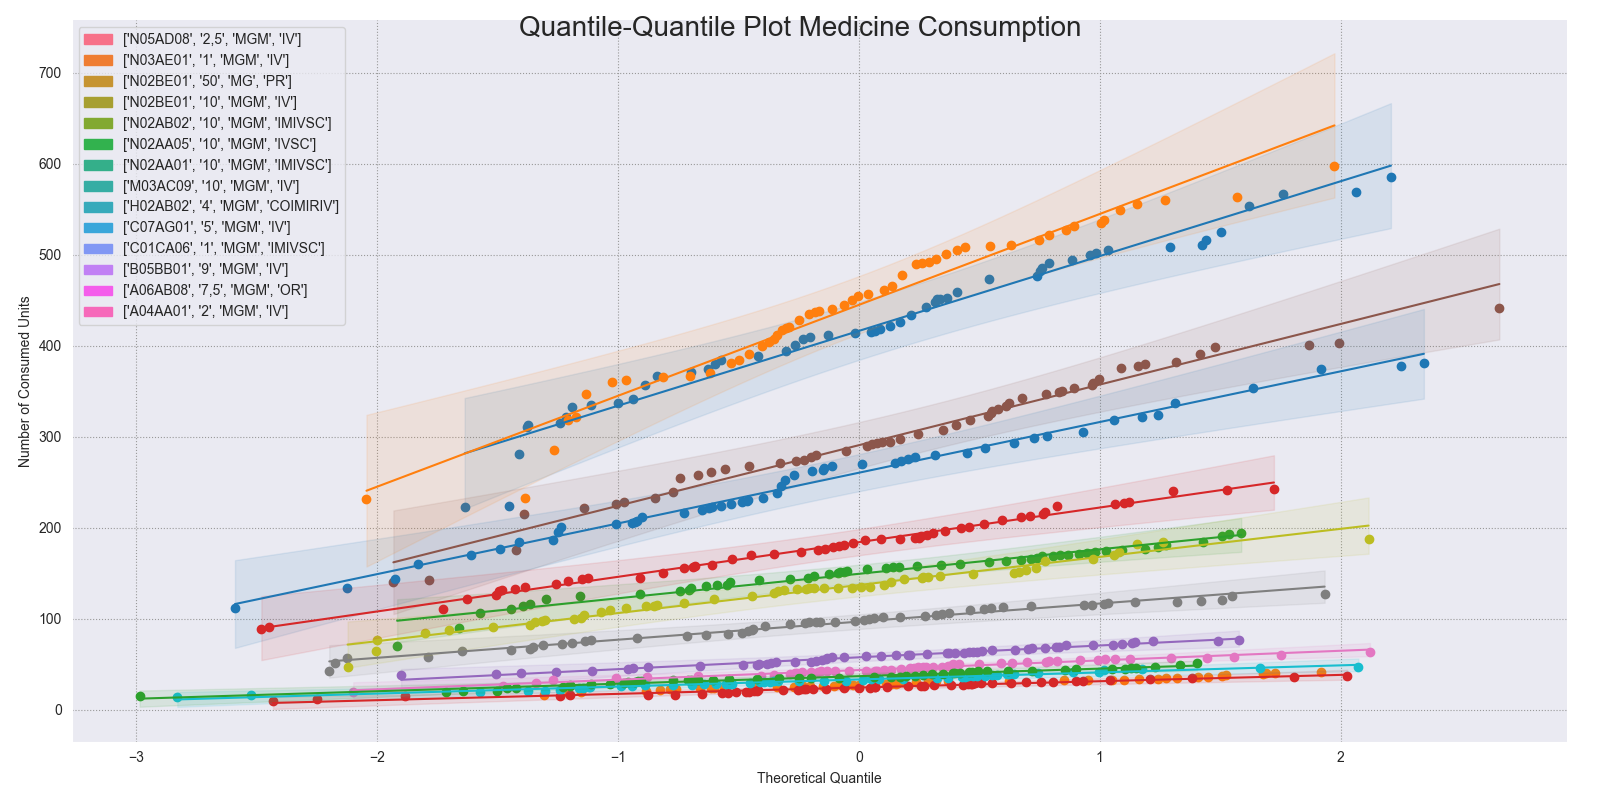
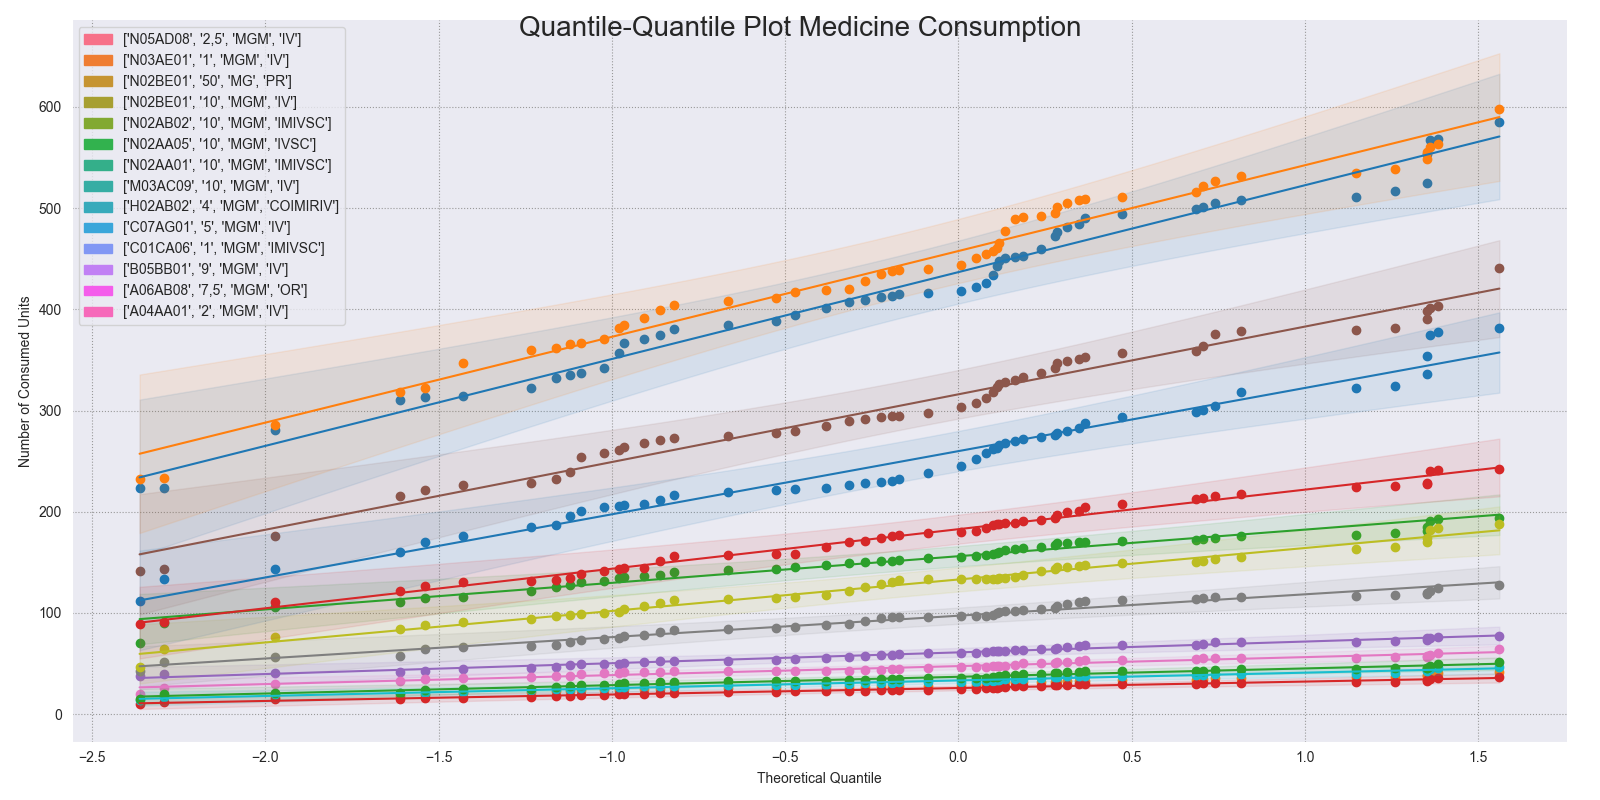
Final Code

Changed region(s): [[0.0312, 0.0625, 0.9375, 0.9062], [0.8125, 0.0625, 0.8438, 0.0938]]

diff --git a/Correlations1.py b/Correlations1.py
@@ -11,7 +11,7 @@ con_dict_updated = json.load(f)
 
 def new_df(d):
     df = pd.DataFrame.from_dict(d,orient='columns')
-    holiday_calender = [1, 0, 0, 0, 0, 0, 0, 1, 0, 0, 0, 0, 0, 1, 1, 0, 0, 0, 0, 1, 0, 0, 0, 0, 0, 0, 1, 1, 1, 1, 1, 1, 0, 0, 0,
+    holiday_calender = [1, 0, 0, 0, 0, 0, 0, 1, 0, 0, 0, 0, 0, 1, 1, 0, 0, 0, 0, 0, 0, 0, 0, 0, 0, 0, 1, 1, 1, 1, 1, 1, 0, 0, 0,
                 0, 0, 0, 0, 0, 0, 0, 1, 0, 0, 0, 0, 0, 0, 0, 0, 1, 1]
     df['Holidays'] = holiday_calender
     return df
@@ -20,23 +20,6 @@ def new_df1(d,p):
     df = pd.DataFrame.from_dict(d,orient='columns')
     df['Patients'] = p.values()
     return df
-
-def corrfunc(x, y, **kws):
-    r, _ = stats.pearsonr(x, y)
-    ax = plt.gca()
-    ax.annotate("r = {:.2f}".format(r),
-                xy=(.1, .9), xycoords=ax.transAxes)
-def cor_plot(df):
-    ax1 = sns.set_style("darkgrid", {"grid.color": ".6", "grid.linestyle": ":"})
-    fig, ax1 = plt.subplots(figsize=(12, 6))
-    g = sns.PairGrid(df, palette=["red"])
-    g.map_upper(plt.scatter, s=10)
-    g.map_diag(sns.distplot, kde=False)
-    g.map_lower(sns.kdeplot, cmap="Blues_d")
-    g.map_lower(corrfunc)
-    g.fig.suptitle('Correlation Between Consumed Medicine and Patients')
-    plt.savefig('./Figures/Correlation_Holidays.png')
-    plt.close('all')
 
 def corr_matrix_Patients(df):
     ax1 = sns.set_style("darkgrid", {"grid.color": ".6", "grid.linestyle": ":"})
@@ -50,6 +33,15 @@ def corr_matrix_Patients(df):
     ax1.set_title('Correlation Matrix for Consumed Medicine and Holidays',fontsize=25)
     plt.savefig('./Figures/Correlation_Matrix_P.png')
 
+def corr_table_medicines(df):
+    corr = df.corr()
+    for col in corr.columns:
+        corr[col] = corr[col].map(lambda x: x if (x >= 0.9) else 0)
+        corr[col] = corr[col].map(lambda x: 0 if (x == 1) else x)
+    corr = corr.loc[:, (corr != 0).any(axis=0)]
+    corr = corr.loc[(corr!=0).any(axis=1)]
+    return corr
+
 def corr_table_holidays(df,k):
     a = stats.pointbiserialr(df['Holidays'], df[k])
     df1 = df[df['Holidays'] == 1]
@@ -58,12 +50,14 @@ def corr_table_holidays(df,k):
     return [round(l[1],2),round(a[0],2),round(a[1],2)]
 
 def corr_table_patients(df,k):
-    a = stats.pointbiserialr(df['Patients'], df[k])
+    a = stats.pearsonr(df['Patients'], df[k])
     l = stats.levene(df['Patients'],df[k])
     return [round(l[1],2),round(a[0],2),round(a[1],2)]
 
 df1 = new_df(con_dict_updated)
 df2 = new_df1(con_dict_updated,pw)
+corr_matrix_Patients(df2)
+corr = corr_table_medicines(df2)
 holidays_corr = {}
 pat_corr = {}
 for key in con_dict_updated.keys():
@@ -74,5 +68,7 @@ df2 = pd.DataFrame.from_dict(pat_corr,columns=['P-value Variance','Correlation C
 t1 = df1.to_latex(index=True)
 t1 = t1.replace('[','$[')
 t1 = t1.replace(']',']$')
+c1 = corr.to_latex(index=True)
+c1 = c1.replace('[','$[')
+c1 = c1.replace(']',']$')
 
-corr_matrix_Patients(df2)

diff --git a/Descriptive_statistics.py b/Descriptive_statistics.py
@@ -91,17 +91,16 @@ def to_df(d):
     d = collections.OrderedDict(sorted(d.items()))
     week = list(np.arange(1,54,1))*len(d)
     vals = [item for sublist in list(d.values()) for item in sublist]
-    dist = []
     id = []
     for i,key in enumerate(d.keys()):
         l = [key]*len(d[key])
         id.append(l)
-        dist.append(list(normal(loc=0, scale=1,
-                    size=len(d[key]))))
     id = [item for sublist in id for item in sublist]
-    dist = [item for sublist in dist for item in sublist]
+    dist =(list(normal(loc=0, scale=1,
+                    size=len(d[key]))))*len(id)
     df = pd.DataFrame(list(zip(id,week,vals,dist)), columns=['Identifier', 'Week','Number of Consumed Units','Distribution'])
     return df
+
 def QQ(df):
     ax1 = sns.set_style("darkgrid", {"grid.color": ".6", "grid.linestyle": ":"})
     fig, ax1 = plt.subplots(figsize=(12, 6))

diff --git a/Correlations2.py b/Correlations2.py
@@ -37,7 +37,7 @@ def new_df(d,p):
     df['Patients'] = p.values()
     return df
 
-def corr_table_holidays(df,k):
+def corr_table_patients(df,k):
     a = stats.pointbiserialr(df['Patients'], df[k])
     return [round(a[0],2),round(a[1],2)]
 
@@ -45,6 +45,6 @@ df1 = new_df(dict_con,pw)
 patients_corr = {}
 for key in sorted(dict_con.keys()):
     abb = key.split(',')[0]
-    patients_corr[abb] = corr_table_holidays(df1,key)
+    patients_corr[abb] = corr_table_patients(df1,key)
 df1 = pd.DataFrame.from_dict(patients_corr,columns=['Correlation Coefficient','P-value'],orient='index')
 t1 = df1.to_latex(index=True)

diff --git a/sort_patients_weekly.py b/sort_patients_weekly.py
@@ -20,7 +20,7 @@ def match_deps(order_data,patients):
 patients = match_deps(order_data,patients)
 wp = []
 
-for i in range(1,53):
+for i in range(0,53):
     wp.append('Week_{}'.format(i))
 
 def weekly_count(df,k,k1):
